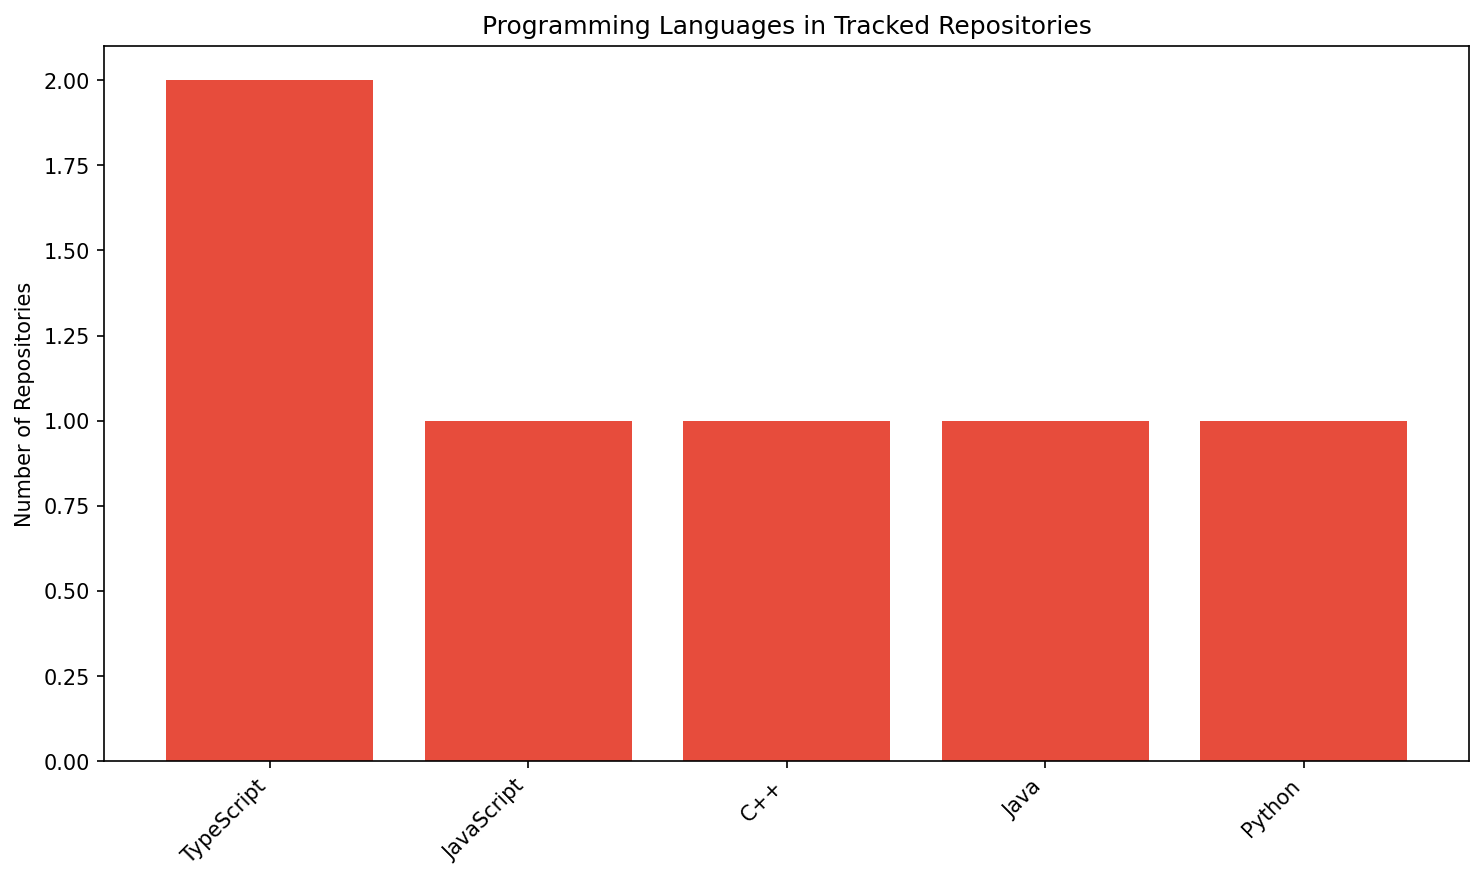
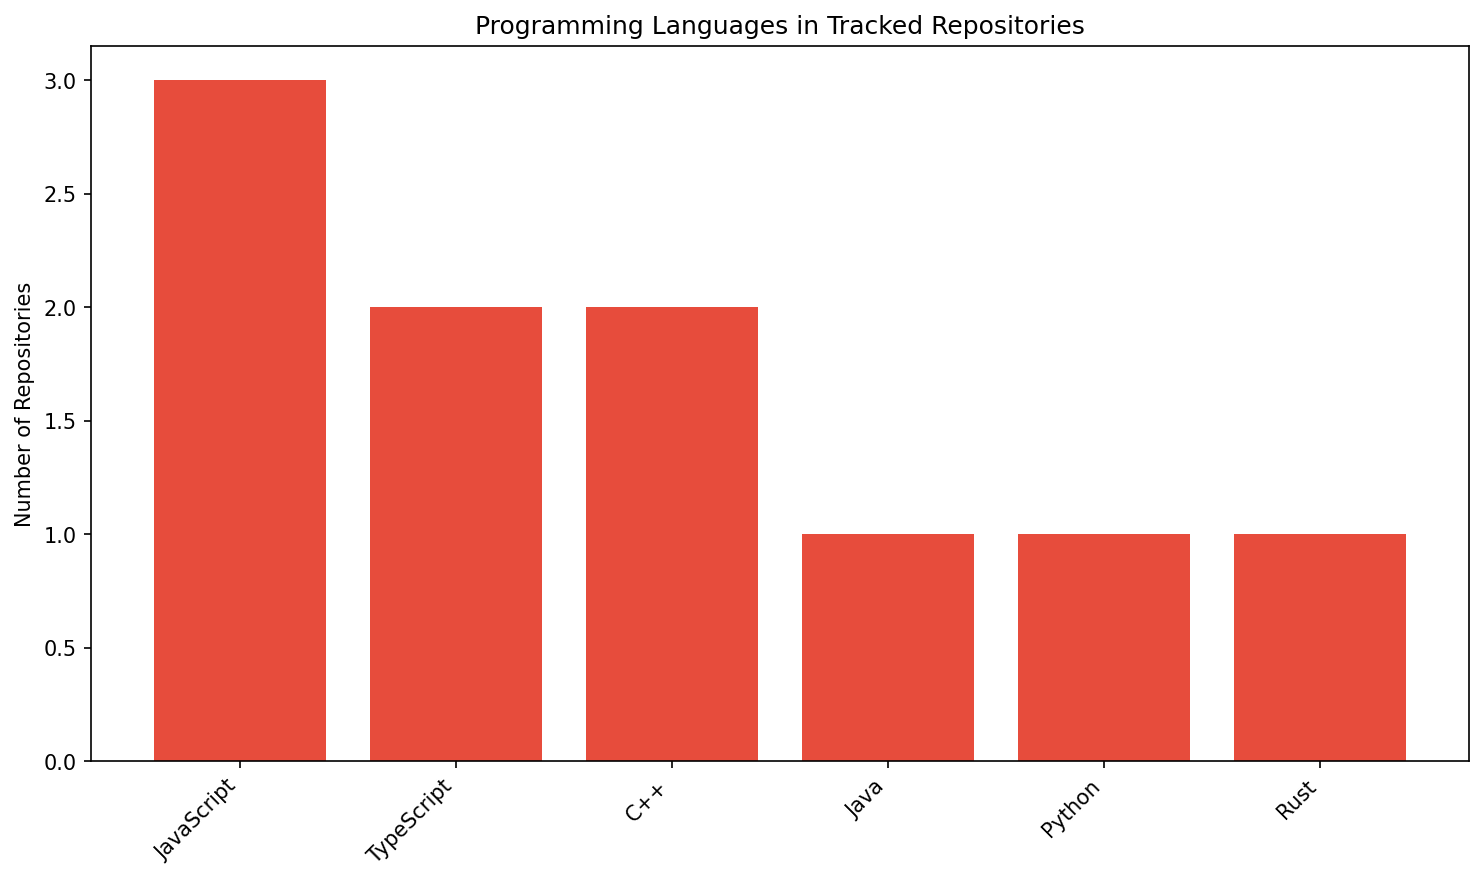
Update dashboard with accurate GitHub data and new repositories

diff --git a/index.html b/index.html
@@ -78,15 +78,15 @@
 
         <div class="stats">
             <div class="stat-card">
-                <h3>6</h3>
+                <h3>10</h3>
                 <p>Tracked Repositories</p>
             </div>
             <div class="stat-card">
-                <h3>500,948</h3>
+                <h3>938,611</h3>
                 <p>Total Stars</p>
             </div>
             <div class="stat-card">
-                <h3>83,491</h3>
+                <h3>93,861</h3>
                 <p>Average Stars</p>
             </div>
         </div>
@@ -119,10 +119,28 @@
                     <td>JavaScript</td>
                 </tr>
                 <tr>
+                    <td><a href="https://github.com/tensorflow/tensorflow" target="_blank">tensorflow</a></td>
+                    <td>tensorflow</td>
+                    <td>⭐ 191,564</td>
+                    <td>C++</td>
+                </tr>
+                <tr>
                     <td><a href="https://github.com/microsoft/vscode" target="_blank">vscode</a></td>
                     <td>microsoft</td>
                     <td>⭐ 176,563</td>
                     <td>TypeScript</td>
+                </tr>
+                <tr>
+                    <td><a href="https://github.com/vercel/next.js" target="_blank">next.js</a></td>
+                    <td>vercel</td>
+                    <td>⭐ 134,312</td>
+                    <td>JavaScript</td>
+                </tr>
+                <tr>
+                    <td><a href="https://github.com/denoland/deno" target="_blank">deno</a></td>
+                    <td>denoland</td>
+                    <td>⭐ 104,159</td>
+                    <td>Rust</td>
                 </tr>
                 <tr>
                     <td><a href="https://github.com/swiftlang/swift" target="_blank">swift</a></td>
@@ -135,6 +153,12 @@
                     <td>Netflix</td>
                     <td>⭐ 13,884</td>
                     <td>Java</td>
+                </tr>
+                <tr>
+                    <td><a href="https://github.com/aws/aws-sdk-js" target="_blank">aws-sdk-js</a></td>
+                    <td>aws</td>
+                    <td>⭐ 7,628</td>
+                    <td>JavaScript</td>
                 </tr>
                 <tr>
                     <td><a href="https://github.com/twilio/twilio-python" target="_blank">twilio-python</a></td>
@@ -152,7 +176,7 @@
         </table>
 
         <div class="update-time">
-            📅 Last update: 2025-09-10 12:52 UTC
+            📅 Last update: 2025-09-10 13:06 UTC
         </div>
     </div>
 </body>

diff --git a/generate_dashboard.py b/generate_dashboard.py
@@ -31,12 +31,14 @@ def get_github_data():
     repos_to_track = [
         'facebook/react',
         'microsoft/vscode',
-        'google/tensorflow',
-        'apple/swift',
-        'netflix/zuul',
-        'amazon/aws-sdk-js',
+        'tensorflow/tensorflow',  # Updated from google/tensorflow
+        'swiftlang/swift',        # Updated from apple/swift
+        'Netflix/zuul',
+        'aws/aws-sdk-js',         # Updated from amazon/aws-sdk-js
         'stripe/stripe-js',
-        'twilio/twilio-python'
+        'twilio/twilio-python',
+        'vercel/next.js',         # Added popular repo
+        'denoland/deno'           # Added popular repo
     ]
 
     for repo_name in repos_to_track:

diff --git a/README.md b/README.md
@@ -1,119 +1,27 @@
-# 👋 Hi, I'm Nick Scherbakov
+# NickScherbakov-dashboard
 
-<div align="center">
-  <img src="https://readme-typing-svg.herokuapp.com?font=Fira+Code&size=32&duration=2800&pause=2000&color=A855F7&center=true&vCenter=true&width=940&lines=Welcome+to+my+GitHub+Profile!;Full+Stack+Developer;Open+Source+Enthusiast;Tech+Explorer+%26+Innovator" alt="Typing SVG" />
-</div>
+## 📊 GitHub Repositories Market Dashboard
 
-## � Featured Projects
+Monitoring GitHub repository market - tracking popular projects and technologies.
 
-### �📊 GitHub Repository Market Dashboard
-[![Dashboard Status](https://img.shields.io/badge/Dashboard-Live-brightgreen?style=for-the-badge&logo=github)](https://NickScherbakov.github.io/NickScherbakov-dashboard/)
-[![GitHub Pages](https://img.shields.io/badge/GitHub-Pages-blue?style=for-the-badge&logo=github)](https://NickScherbakov.github.io/NickScherbakov-dashboard/)
+### 📈 Current Statistics
+- **Tracked Repositories**: 10
+- **Total Stars**: 938,611
+- **Average Stars**: 93,861
 
-**Live analytics dashboard tracking GitHub repository market trends:**
-- 📈 Real-time market overview with interactive charts
-- 🏷 Programming language popularity trends
-- ⭐ Top repositories by stars ranking
-- 🔄 Auto-updates every 6 hours via GitHub Actions
-- 📱 Fully responsive design
+### 📊 Market Overview
+![Market Overview](charts/overview.png)
 
-[🌐 View Live Dashboard](https://NickScherbakov.github.io/NickScherbakov-dashboard/) | [📂 Repository](https://github.com/NickScherbakov/NickScherbakov-dashboard)
+### 🏷 Popular Languages
+![Languages](charts/languages.png)
 
----
+### 🔝 Top 5 Repositories
+| Repository | Owner | Stars | Language |
+|------------|-------|-------|----------|
+| [react](https://github.com/facebook/react) | facebook | ⭐ 238,796 | JavaScript |
+| [tensorflow](https://github.com/tensorflow/tensorflow) | tensorflow | ⭐ 191,564 | C++ |
+| [vscode](https://github.com/microsoft/vscode) | microsoft | ⭐ 176,563 | TypeScript |
+| [next.js](https://github.com/vercel/next.js) | vercel | ⭐ 134,312 | JavaScript |
+| [deno](https://github.com/denoland/deno) | denoland | ⭐ 104,159 | Rust |
 
-## 🛠 Tech Stack & Tools
-
-### Languages
-![Python](https://img.shields.io/badge/Python-3776AB?style=for-the-badge&logo=python&logoColor=white)
-![JavaScript](https://img.shields.io/badge/JavaScript-F7DF1E?style=for-the-badge&logo=javascript&logoColor=black)
-![TypeScript](https://img.shields.io/badge/TypeScript-007ACC?style=for-the-badge&logo=typescript&logoColor=white)
-![Java](https://img.shields.io/badge/Java-ED8B00?style=for-the-badge&logo=openjdk&logoColor=white)
-![C++](https://img.shields.io/badge/C%2B%2B-00599C?style=for-the-badge&logo=c%2B%2B&logoColor=white)
-
-### Frameworks & Libraries
-![React](https://img.shields.io/badge/React-20232A?style=for-the-badge&logo=react&logoColor=61DAFB)
-![Node.js](https://img.shields.io/badge/Node.js-43853D?style=for-the-badge&logo=node.js&logoColor=white)
-![Express.js](https://img.shields.io/badge/Express.js-404D59?style=for-the-badge&logo=express&logoColor=white)
-![Flask](https://img.shields.io/badge/Flask-000000?style=for-the-badge&logo=flask&logoColor=white)
-![FastAPI](https://img.shields.io/badge/FastAPI-009688?style=for-the-badge&logo=fastapi&logoColor=white)
-
-### Databases & Cloud
-![PostgreSQL](https://img.shields.io/badge/PostgreSQL-316192?style=for-the-badge&logo=postgresql&logoColor=white)
-![MongoDB](https://img.shields.io/badge/MongoDB-4EA94B?style=for-the-badge&logo=mongodb&logoColor=white)
-![Redis](https://img.shields.io/badge/Redis-DC382D?style=for-the-badge&logo=redis&logoColor=white)
-![AWS](https://img.shields.io/badge/AWS-232F3E?style=for-the-badge&logo=amazon-aws&logoColor=white)
-![Docker](https://img.shields.io/badge/Docker-2496ED?style=for-the-badge&logo=docker&logoColor=white)
-
-### Tools & Platforms
-![Git](https://img.shields.io/badge/Git-F05032?style=for-the-badge&logo=git&logoColor=white)
-![GitHub](https://img.shields.io/badge/GitHub-100000?style=for-the-badge&logo=github&logoColor=white)
-![VS Code](https://img.shields.io/badge/VS_Code-0078D4?style=for-the-badge&logo=visual%20studio%20code&logoColor=white)
-![Linux](https://img.shields.io/badge/Linux-FCC624?style=for-the-badge&logo=linux&logoColor=black)
-![Ubuntu](https://img.shields.io/badge/Ubuntu-E95420?style=for-the-badge&logo=ubuntu&logoColor=white)
-
----
-
-## 📈 GitHub Stats
-
-<div align="center">
-  <img height="180em" src="https://github-readme-stats.vercel.app/api?username=NickScherbakov&show_icons=true&theme=tokyonight&include_all_commits=true&count_private=true"/>
-  <img height="180em" src="https://github-readme-stats.vercel.app/api/top-langs/?username=NickScherbakov&layout=compact&theme=tokyonight"/>
-</div>
-
----
-
-## 🎯 Current Focus
-
-- 🔍 **Repository Market Analytics** - Building automated systems to track GitHub trends
-- 🚀 **Full Stack Development** - Creating scalable web applications
-- 📊 **Data Visualization** - Turning complex data into beautiful, interactive charts
-- 🤖 **AI & Automation** - Exploring machine learning and automated workflows
-- 🌐 **Open Source** - Contributing to and maintaining open source projects
-
----
-
-## 📫 Connect With Me
-
-<div align="center">
-  <a href="https://github.com/NickScherbakov">
-    <img src="https://img.shields.io/badge/GitHub-100000?style=for-the-badge&logo=github&logoColor=white" alt="GitHub"/>
-  </a>
-  <a href="https://NickScherbakov.github.io/NickScherbakov-dashboard/">
-    <img src="https://img.shields.io/badge/Dashboard-FF6B6B?style=for-the-badge&logo=github&logoColor=white" alt="Dashboard"/>
-  </a>
-  <a href="mailto:your.email@example.com">
-    <img src="https://img.shields.io/badge/Email-D14836?style=for-the-badge&logo=gmail&logoColor=white" alt="Email"/>
-  </a>
-  <a href="https://linkedin.com/in/nickscherbakov">
-    <img src="https://img.shields.io/badge/LinkedIn-0077B5?style=for-the-badge&logo=linkedin&logoColor=white" alt="LinkedIn"/>
-  </a>
-</div>
-
----
-
-## 🔥 Recent Activity
-
-<!--START_SECTION:activity-->
-- 🔭 Currently working on **GitHub Repository Market Analytics Dashboard**
-- 🌱 Learning **Advanced Data Visualization** and **Machine Learning**
-- 👯 Looking to collaborate on **Open Source Projects**
-- 💬 Ask me about **Python, JavaScript, Data Analysis**
-- 📫 How to reach me: **DM on GitHub**
-<!--END_SECTION:activity-->
-
----
-
-<div align="center">
-  <img src="https://komarev.com/ghpvc/?username=NickScherbakov&label=Profile%20views&color=0e75b6&style=flat" alt="Profile views" />
-  <img src="https://img.shields.io/github/followers/NickScherbakov?label=Followers&style=social" alt="GitHub Badge">
-</div>
-
----
-
-⭐ **Fun fact:** I'm passionate about turning complex data into beautiful, interactive visualizations that tell compelling stories!
-
-*"Code is poetry in motion"*
-
----
-
-**📊 Check out my live [Repository Market Dashboard](https://NickScherbakov.github.io/NickScherbakov-dashboard/) for real-time GitHub analytics!**
+*Dashboard updates automatically every 6 hours. Last update: 2025-09-10 13:06 UTC*
